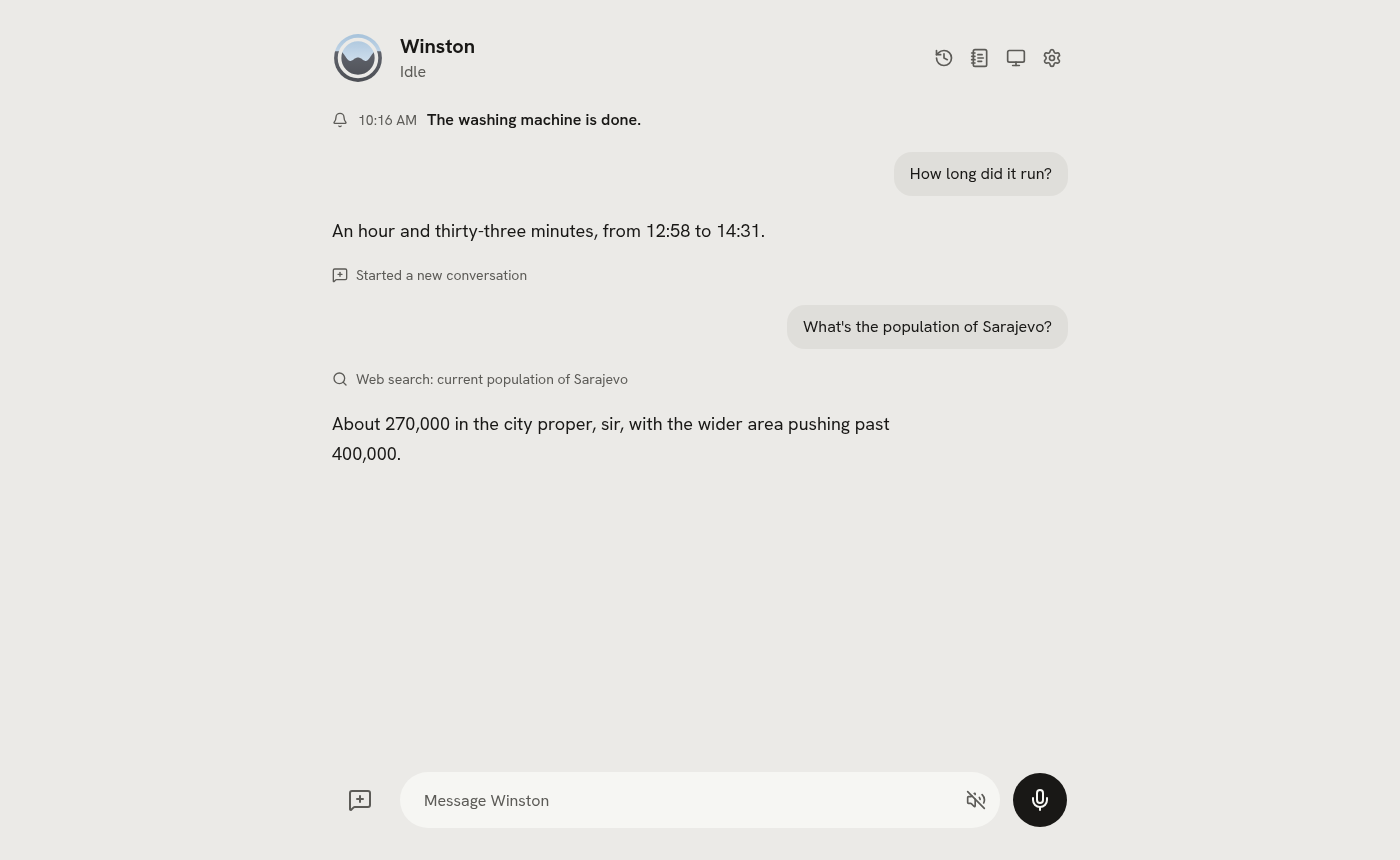
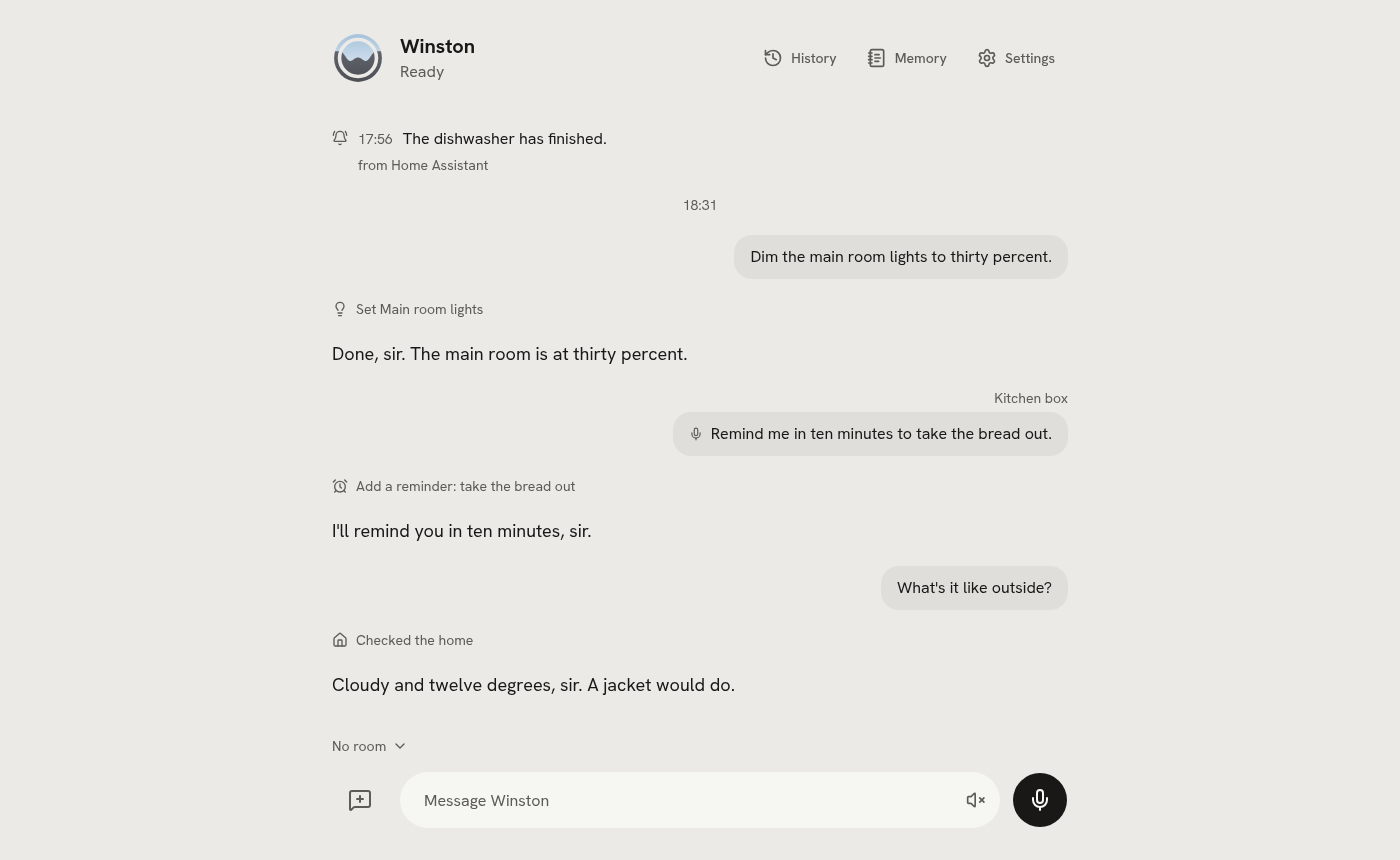
Talk: him thinking shown in the conversation; Read aloud crossed out when off; New conversation asks first
After a message, only the small logo at the top left said he was
thinking. A small mark and Thinking now sit where his reply will appear,
until his words or a running action replace them.

Read typed replies aloud dropped while pressed: the button's press nudge
(translate-y-px) replaced the -translate-y-1/2 that centred it in the
field. It is centred with inset-y-0 and my-auto now, and shows a crossed
out speaker while off.

New conversation asks first, saying he forgets what was said and keeps
Memory, and which screens and box in the room start over too.

tests/talk.spec.ts in pnpm smoke checks all three on a faked feed; the
button stays within 2 px while pressed, where it had dropped 17 px.

diff --git a/web/src/pages/talk.tsx b/web/src/pages/talk.tsx
@@ -11,6 +11,7 @@ import {
   Mic,
   ShieldQuestion,
   Volume2,
+  VolumeX,
 } from 'lucide-react'
 import { Link } from 'react-router'
 import { toast } from 'sonner'
@@ -20,6 +21,7 @@ import { micHolder, presence, useChat, useLive, useStartOver, type Item } from '
 import { partName, useStatus } from '@/api/status'
 import { IconButton } from '@/components/icon-button'
 import { useTitle } from '@/components/page'
+import { Presence } from '@/components/presence'
 import { Button } from '@/components/ui/button'
 import { Select, SelectContent, SelectItem, SelectTrigger, SelectValue } from '@/components/ui/select'
 import { Separator } from '@/components/ui/separator'
@@ -27,6 +29,7 @@ import { ToolLine } from '@/components/tool-line'
 import { TurnMarkControl } from '@/components/turn-mark'
 import { WinstonHeader } from '@/components/winston-header'
 import { Input } from '@/components/ui/input'
+import { useConfirm } from '@/hooks/use-confirm'
 import { useMarks } from '@/hooks/use-marks'
 import { useNow } from '@/hooks/use-now'
 import { useRegion } from '@/hooks/use-region'
@@ -258,6 +261,7 @@ export default function TalkPage() {
   const marks = useMarks(feed.items.filter((i) => i.kind === 'tool' && i.name === 'mark_mistake' && i.status === 'ok').length)
   const chat = useChat()
   const startOver = useStartOver()
+  const ask = useConfirm()
   const status = useStatus()
   const config = useConfig()
   const rooms = useRoomChoices()
@@ -275,10 +279,14 @@ export default function TalkPage() {
   const heard = presence(feed, now)
   const state = speech.playing && heard === 'idle' ? 'speaking' : heard
   const name = status.data?.assistant ?? ''
+  // Thinking shows where his reply will appear, until his words or a running action show it themselves.
+  const last = feed.items.at(-1)
+  const thinking =
+    heard === 'thinking' && !(last?.kind === 'reply' && !last.done && last.text.trim()) && !(last?.kind === 'tool' && last.status === 'running')
 
   useEffect(() => {
     if (following) end.current?.scrollIntoView({ block: 'end' })
-  }, [feed.items, following])
+  }, [feed.items, following, thinking])
 
   const { on: readAloud, speak } = speech
   useEffect(() => {
@@ -364,6 +372,12 @@ export default function TalkPage() {
                 )}
               </Fragment>
             ))}
+            {thinking ? (
+              <div className="flex items-center gap-2.5 text-muted-foreground">
+                <Presence state="thinking" className="size-7" />
+                Thinking
+              </div>
+            ) : null}
             <div ref={end} />
           </div>
         </main>
@@ -388,9 +402,17 @@ export default function TalkPage() {
           size="icon"
           label={room ? `New conversation for ${room}${boxRoom ? ' and its box' : ''}` : 'New conversation'}
           disabled={startOver.isPending}
-          onClick={() =>
-            startOver.mutate({ body: { room: room || null } }, { onError: () => toast.error('Could not start a new conversation') })
-          }
+          onClick={async () => {
+            const sure = await ask({
+              title: 'Start a new conversation?',
+              lines: [
+                'He forgets what was said so far. What he remembers in Memory stays.',
+                ...(room ? [`Every screen in the ${room}${boxRoom ? ' and its box' : ''} starts over too.`] : []),
+              ],
+              choices: [{ label: 'New conversation', value: 'yes' }],
+            })
+            if (sure) startOver.mutate({ body: { room: room || null } }, { onError: () => toast.error('Could not start a new conversation') })
+          }}
           className="size-14 rounded-full text-muted-foreground hover:text-foreground"
         >
           <MessageSquarePlus className="size-6" />
@@ -409,9 +431,9 @@ export default function TalkPage() {
             label="Read typed replies aloud"
             aria-pressed={readAloud}
             onClick={speech.toggle}
-            className="absolute top-1/2 right-2 -translate-y-1/2 rounded-full text-muted-foreground aria-pressed:bg-accent aria-pressed:text-foreground"
+            className="absolute inset-y-0 right-2 my-auto rounded-full text-muted-foreground aria-pressed:bg-accent aria-pressed:text-foreground"
           >
-            <Volume2 className="size-5" />
+            {readAloud ? <Volume2 className="size-5" /> : <VolumeX className="size-5" />}
           </IconButton>
         </div>
         {text.trim() ? (

diff --git a/web/tests/talk.spec.ts b/web/tests/talk.spec.ts
@@ -1,0 +1,49 @@
+import { expect, test } from '@playwright/test'
+
+// Runs against the throwaway winstond `pnpm smoke` starts. Its brain is off, so the live feed is faked here:
+// a typed line and the thinking state that follows it.
+const shots = process.env.WINSTON_SHOTS
+
+test('Talk shows him thinking, crosses out Read aloud while off and asks before a new conversation', async ({ page }) => {
+  await page.route('/api/live', (route) => {
+    const ts = Date.now() / 1000
+    const events = [
+      { channel: 'web', type: 'user', id: 'u1', ts, text: 'What time is it?' },
+      { channel: 'web', type: 'state', ts, state: 'thinking' },
+    ]
+    return route.fulfill({ contentType: 'text/event-stream', body: events.map((e) => `data: ${JSON.stringify(e)}\n\n`).join('') })
+  })
+  let startedOver = false
+  await page.route('/api/chat/start-over', (route) => {
+    startedOver = true
+    return route.fulfill({ json: {} })
+  })
+  await page.goto('/')
+  await expect(page.getByText('What time is it?')).toBeVisible()
+  await expect(page.locator('main').getByText('Thinking', { exact: true })).toBeVisible()
+
+  // Read aloud: the speaker crossed out while off, sound waves while on, and it stays put while pressed.
+  const read = page.getByRole('button', { name: 'Read typed replies aloud' })
+  const pressed = await read.getAttribute('aria-pressed')
+  if (pressed === 'true') await read.click()
+  await expect(read.locator('svg.lucide-volume-x')).toBeVisible()
+  const box = (await read.boundingBox())!
+  await page.mouse.move(box.x + box.width / 2, box.y + box.height / 2)
+  await page.mouse.down()
+  await page.waitForTimeout(300) // past the press transition
+  expect(Math.abs((await read.boundingBox())!.y - box.y)).toBeLessThan(2)
+  await page.mouse.up()
+  await expect(read.locator('svg.lucide-volume-2')).toBeVisible()
+  if (shots) await page.screenshot({ path: `${shots}/talk-thinking.png` })
+  if (pressed !== 'true') await read.click()
+
+  // New conversation asks first; Cancel leaves the conversation alone.
+  await page.getByRole('button', { name: /^New conversation/ }).click()
+  await expect(page.getByRole('alertdialog')).toContainText('Start a new conversation?')
+  if (shots) await page.screenshot({ path: `${shots}/talk-new-conversation.png` })
+  await page.getByRole('button', { name: 'Cancel' }).click()
+  expect(startedOver).toBe(false)
+  await page.getByRole('button', { name: /^New conversation/ }).click()
+  await page.getByRole('alertdialog').getByRole('button', { name: 'New conversation' }).click()
+  await expect.poll(() => startedOver).toBe(true)
+})

diff --git a/docs/plan.md b/docs/plan.md
@@ -265,6 +265,7 @@ The web UI started as settings only. Winston himself moves to the front; setting
 
 - **Status 2026-10-18: what his own instance showed.** The redesign looked at with his real data: 26 findings fixed, 3 left for later by Aldin (humanized voice names, 24-hour time fields, rewording his memory topics). Extension pages scrolled sideways at 1400 px beside the sidebar and lost their name at 390 px: the header now follows its own width, the breadcrumb and the commands give way and the title stays whole. An extension's own command reads "Restart Agenda", so it is not taken for the Restart of saved settings, which is now a few words ("Waiting for a restart: the brain") said once, Status included. A menu is as wide as its longest item. Home Assistant's script descriptions lose the "Aliases: [...]" it appends and are cut at a word; its tables share column widths; what it cannot reach comes last in the picker; the vacuum and broadcast actions have labels, and a tool line its domain's icon. A mark reads Wanted: "..." or, made by voice, He noted: "..."; a message says how it was said or "Not said: quiet hours", with its day. Status names the brain's model by its short name, says what amber graphics memory means and shows Start all or Stop all, not both. New in the standard: an extension's own list for a picker in its settings (`@ext.choices`), which gives Spotify's playlists with their covers and song counts, and a status with a warning and a note (`Status`), which News uses for a feed not answering and its learned topics. Also: phones named as in Home Assistant, Agenda's lead time in minutes, Spotify's Advanced timings under two headings, extension tiles that say what a large prompt costs, thinking's restarts only for the channels each choice reaches, and Awareness's goodnight after midnight (Extensions track). Checked: `pnpm build`; `pnpm smoke` 16 of 16, now also with each page's title whole at 390 px, the More menu's items on one line, and extension pages, Home Assistant and Status at 1280 px beside the sidebar; `just lint`; `winston check unit` passes (Spotify 43, Agenda 10, News 17, Awareness 7 tests; `sdk/tests/sdk_cases.py`, `tests/ui_data_cases.py`, `tests/home_cases.py` and `tests/profiles_load.py` with new cases); shots retaken on the throwaway. Not yet: his instance after a restart.
 - **Status 2026-10-18: no Advanced toggle** ([UI guide](ui-guide.md#settings), [running](running.md#settings-only-in-configyaml)). The page-wide Advanced toggle and the fields' `level` are gone: a field is drawn or `hidden` (config.yaml only). How each slot's engine runs is one closed How it runs fold at the bottom of its card on Brain and Voice: the engine block, its state while running, Reset to the preset, the API address while Winston runs the engine, How thinking is switched on Brain and Sample rate on Speaking; a problem with the engine shows above it, and a refused save opens it. What was under Advanced is now drawn where it belongs (How he picks his words on Brain, its values as inputs, not sliders; Stream speech and Chunk length; Who can open this page on Status, with its warning; New conversation after on the Talk page and room boxes; Give up after; the extensions' models, effort and spending limits; Memory limit) or is config.yaml only (variable names, ports, folders, log files, First chunk and Look-ahead, the browser's and the boxes' silence timings, and open barge-in, now off by default). The SDK's `level=` is accepted and ignored, and `Field(hidden=True)` keeps a port or path off the form. The engine fields are in the order How it runs draws them, and the Not saved toast names a field without its key ("Brain, Startup time limit"). On a phone a long model name had made the Brain card wider than the screen, cutting off Reset to the preset; the card hid its overflow, so the 390 px check missed it, and that check now also fails on a card's content wider than the card. Checked: `pnpm build`; `pnpm smoke` 17 of 18, the two new cases passing (a refused save opens the How it runs that holds the field; Status lists the custom engines and who can open the page), the one failure History's mark wording (`turns.spec.ts`), which failed before this change too; `winston check unit` all 33 steps (826 ok, 0 mismatches); `uvx ruff check src tests sdk scripts` and the em dash grep clean; on a throwaway winstond with the fake Home Assistant, every settings page, the custom engine page and the 11 extension pages at 1400 and 390 wide, light and dark, with every How it runs open: no page errors, no sideways scroll, no card cut off, nothing to save on load; a refused save in a closed fold opens it and focuses the field, and a hidden field's error is in the toast, marked "(in config.yaml)". Not yet: the shots retaken (Brain, Voice, Status, Actions, Ways to talk, Speaking up, Home Assistant, the News and MCP extension pages), and his instance after a restart: until then its winstond serves the old schema, so the live page shows every former Advanced field.
+- **Status 2026-10-21: the Talk page shows him thinking** ([UI guide](ui-guide.md#winston)). Aldin sent a message and only the small logo at the top left said he was thinking. Now a small mark and Thinking sit where his reply will appear until his words or a running action replace them. Read typed replies aloud crosses its speaker out while off, and no longer drops while pressed (the button's press nudge undid its centering). New conversation asks first. Checked: `tests/talk.spec.ts` in `pnpm smoke` (thinking shown on a faked feed, the icon per state, the button within 2 px while pressed where it had dropped 17 px, Cancel starts nothing); the whole smoke 18 of 19, the one failure History's mark wording, as before; Talk shots retaken. Not yet: seen on his instance with the real brain.
 #### UI track open items (added 2026-10-17)
 1. **Asks you first per Home Assistant device.** Home Assistant's actions run on their own: one action (`HassTurnOn`) covers lamps and locks alike, so a permission per action cannot hold back a lock. Needs a flag per entity and a confirm path in the core. Open question for Aldin: which devices, if any.
 2. **The MCP server's Keys it needs as a plain list.** A server started by a command draws its keys in rows of the page's own (a name with a trash, the key field with its own Remove, then Add a key), not the forms' plain list, and the two removes side by side can read as one.

diff --git a/docs/ui-guide.md b/docs/ui-guide.md
@@ -144,17 +144,18 @@ the program ("Start with Winston", "Takes effect when Winston restarts").
   from another place say where on the first line of a run ("Kitchen box", "Discord"). What he brings
   up on his own is one line with a bell: the time, what he said, from whom and where it went. An error
   line gives the server's sentence and a Status link. A restricted action waiting for you is a line
-  with Confirm and Decline, replaced by its outcome. The view follows new lines only while it is at the
-  bottom; otherwise New messages jumps down.
+  with Confirm and Decline, replaced by its outcome. While he thinks, a small `Presence` and Thinking
+  sit where his reply will appear, until his words or a running action take over. The view follows new
+  lines only while it is at the bottom; otherwise New messages jumps down.
 - His presence is his logo, one component, `Presence`, driven by his state; see
   [identity](identity.md). Pages never draw their own version of it. The line under his name says
   whether he can answer (`notReady` in `api/live.ts`): Ready, Listening, Thinking, Speaking, "Starting:
   his brain is loading (about 2 min)", or "Can't answer: his brain is stopped" (or "Can't reach
   Winston") with a Status link.
-- Voice and typing sit side by side at the bottom: New conversation as a quiet round icon button, the
-  text field with Read typed replies aloud at its end, and one round talk button that becomes Send once
-  something is typed. Toggles keep their icon and show their state with a pressed style
-  (`aria-pressed`). One muted line above the field holds the room picker at the left once a room exists
+- Voice and typing sit side by side at the bottom: New conversation as a quiet round icon button (it
+  asks first), the text field with Read typed replies aloud at its end, and one round talk button that
+  becomes Send once something is typed. Toggles keep their icon and show their state with a pressed
+  style (`aria-pressed`); Read aloud also crosses its speaker out while off. One muted line above the field holds the room picker at the left once a room exists
   (each option says what choosing it does; it is locked while you talk) and the one fact that matters
   now at the right: the Talk page microphone is off, a box holds the microphone, "Listening. He hears
   everything until you press the microphone again.", or read aloud is on.
